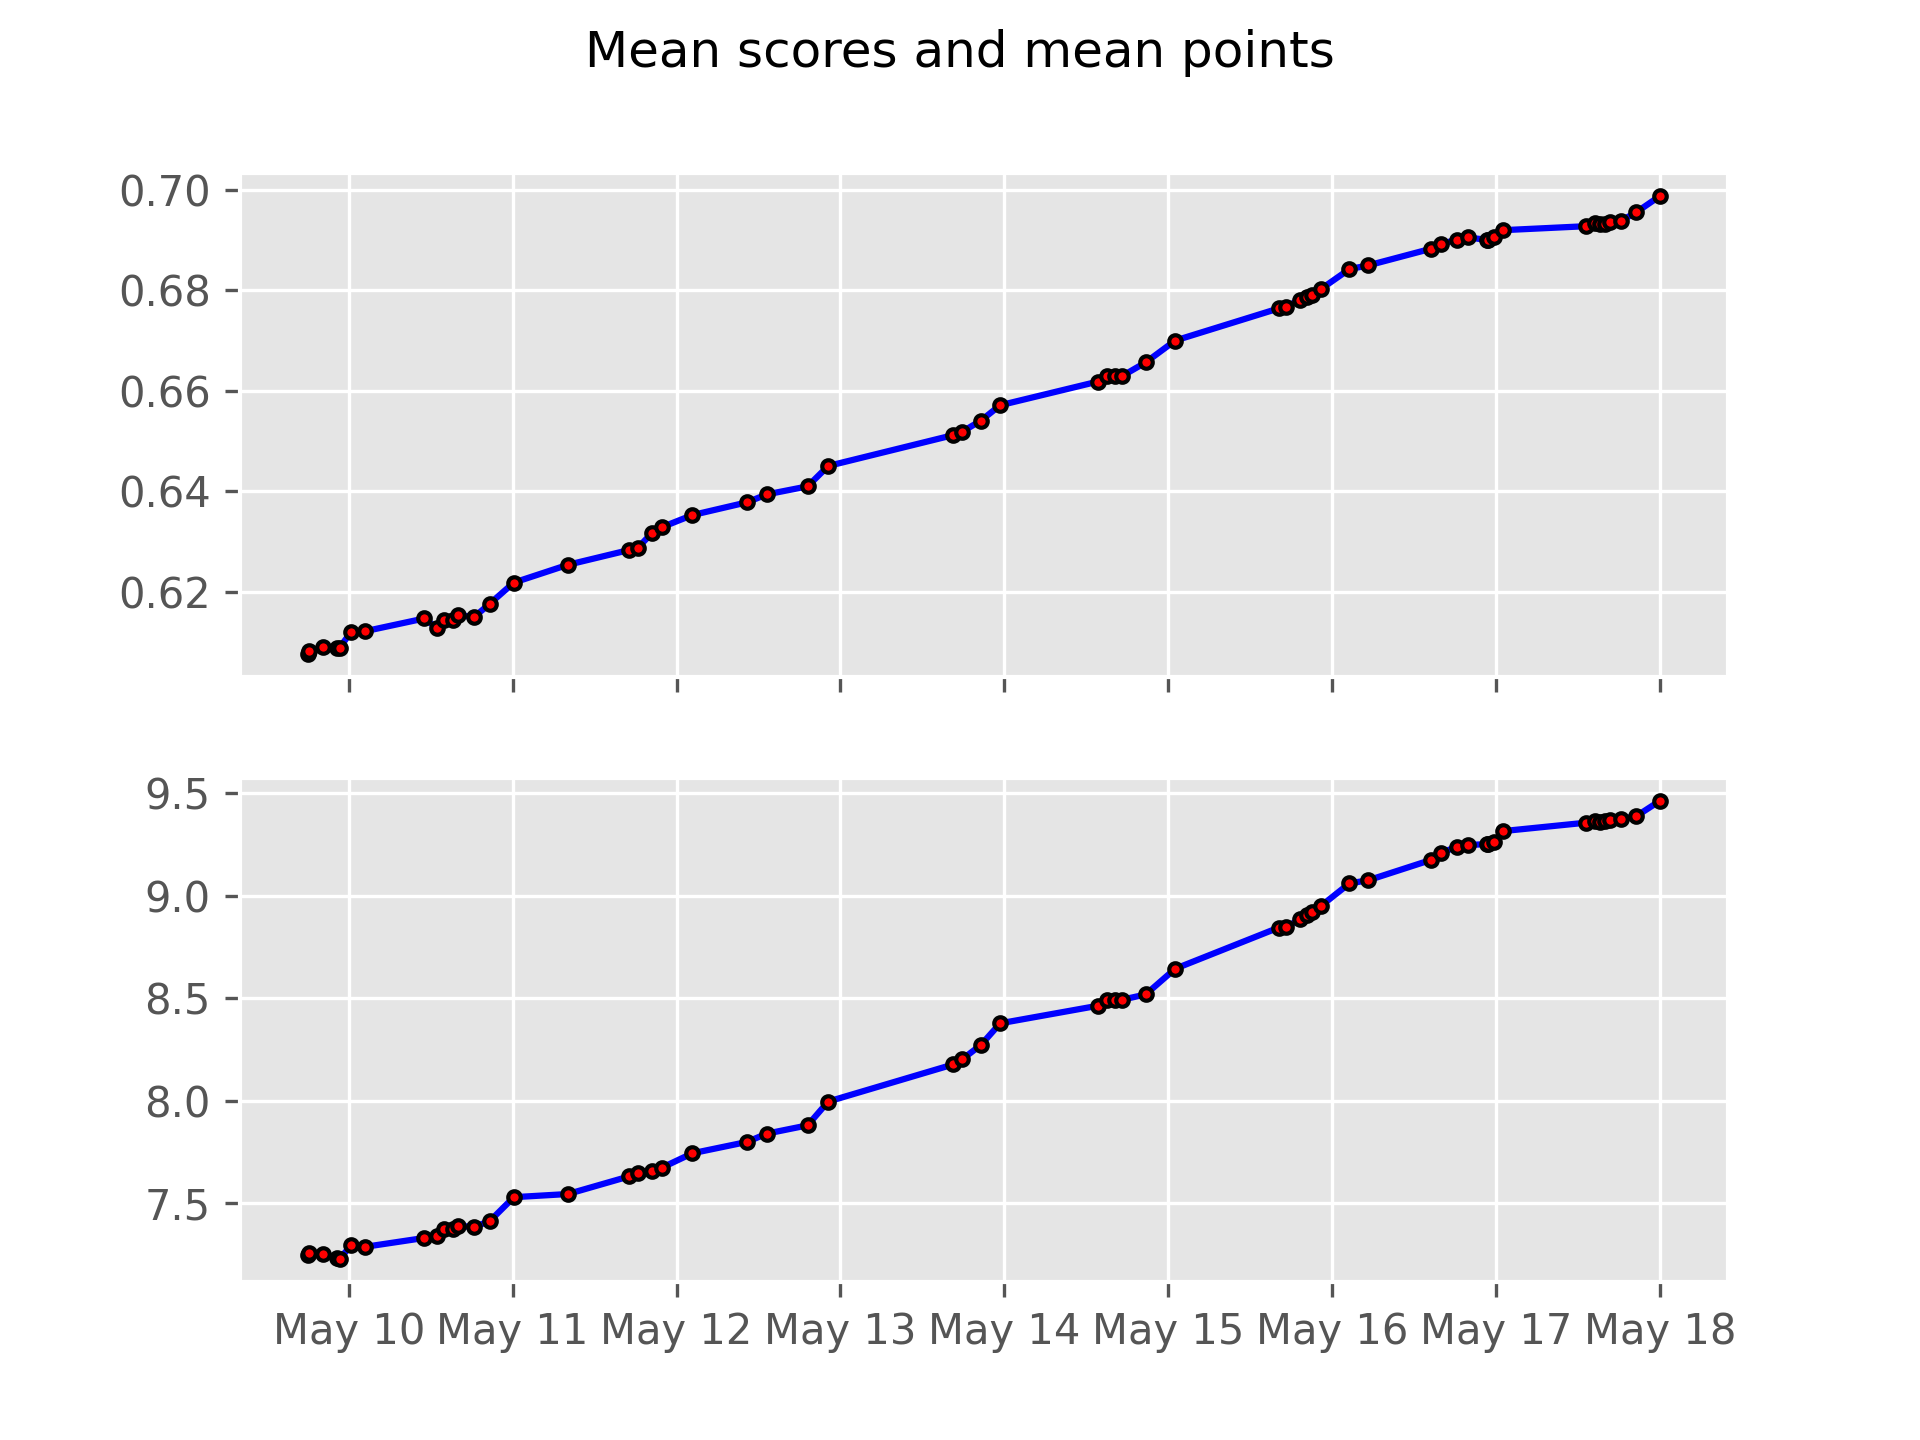
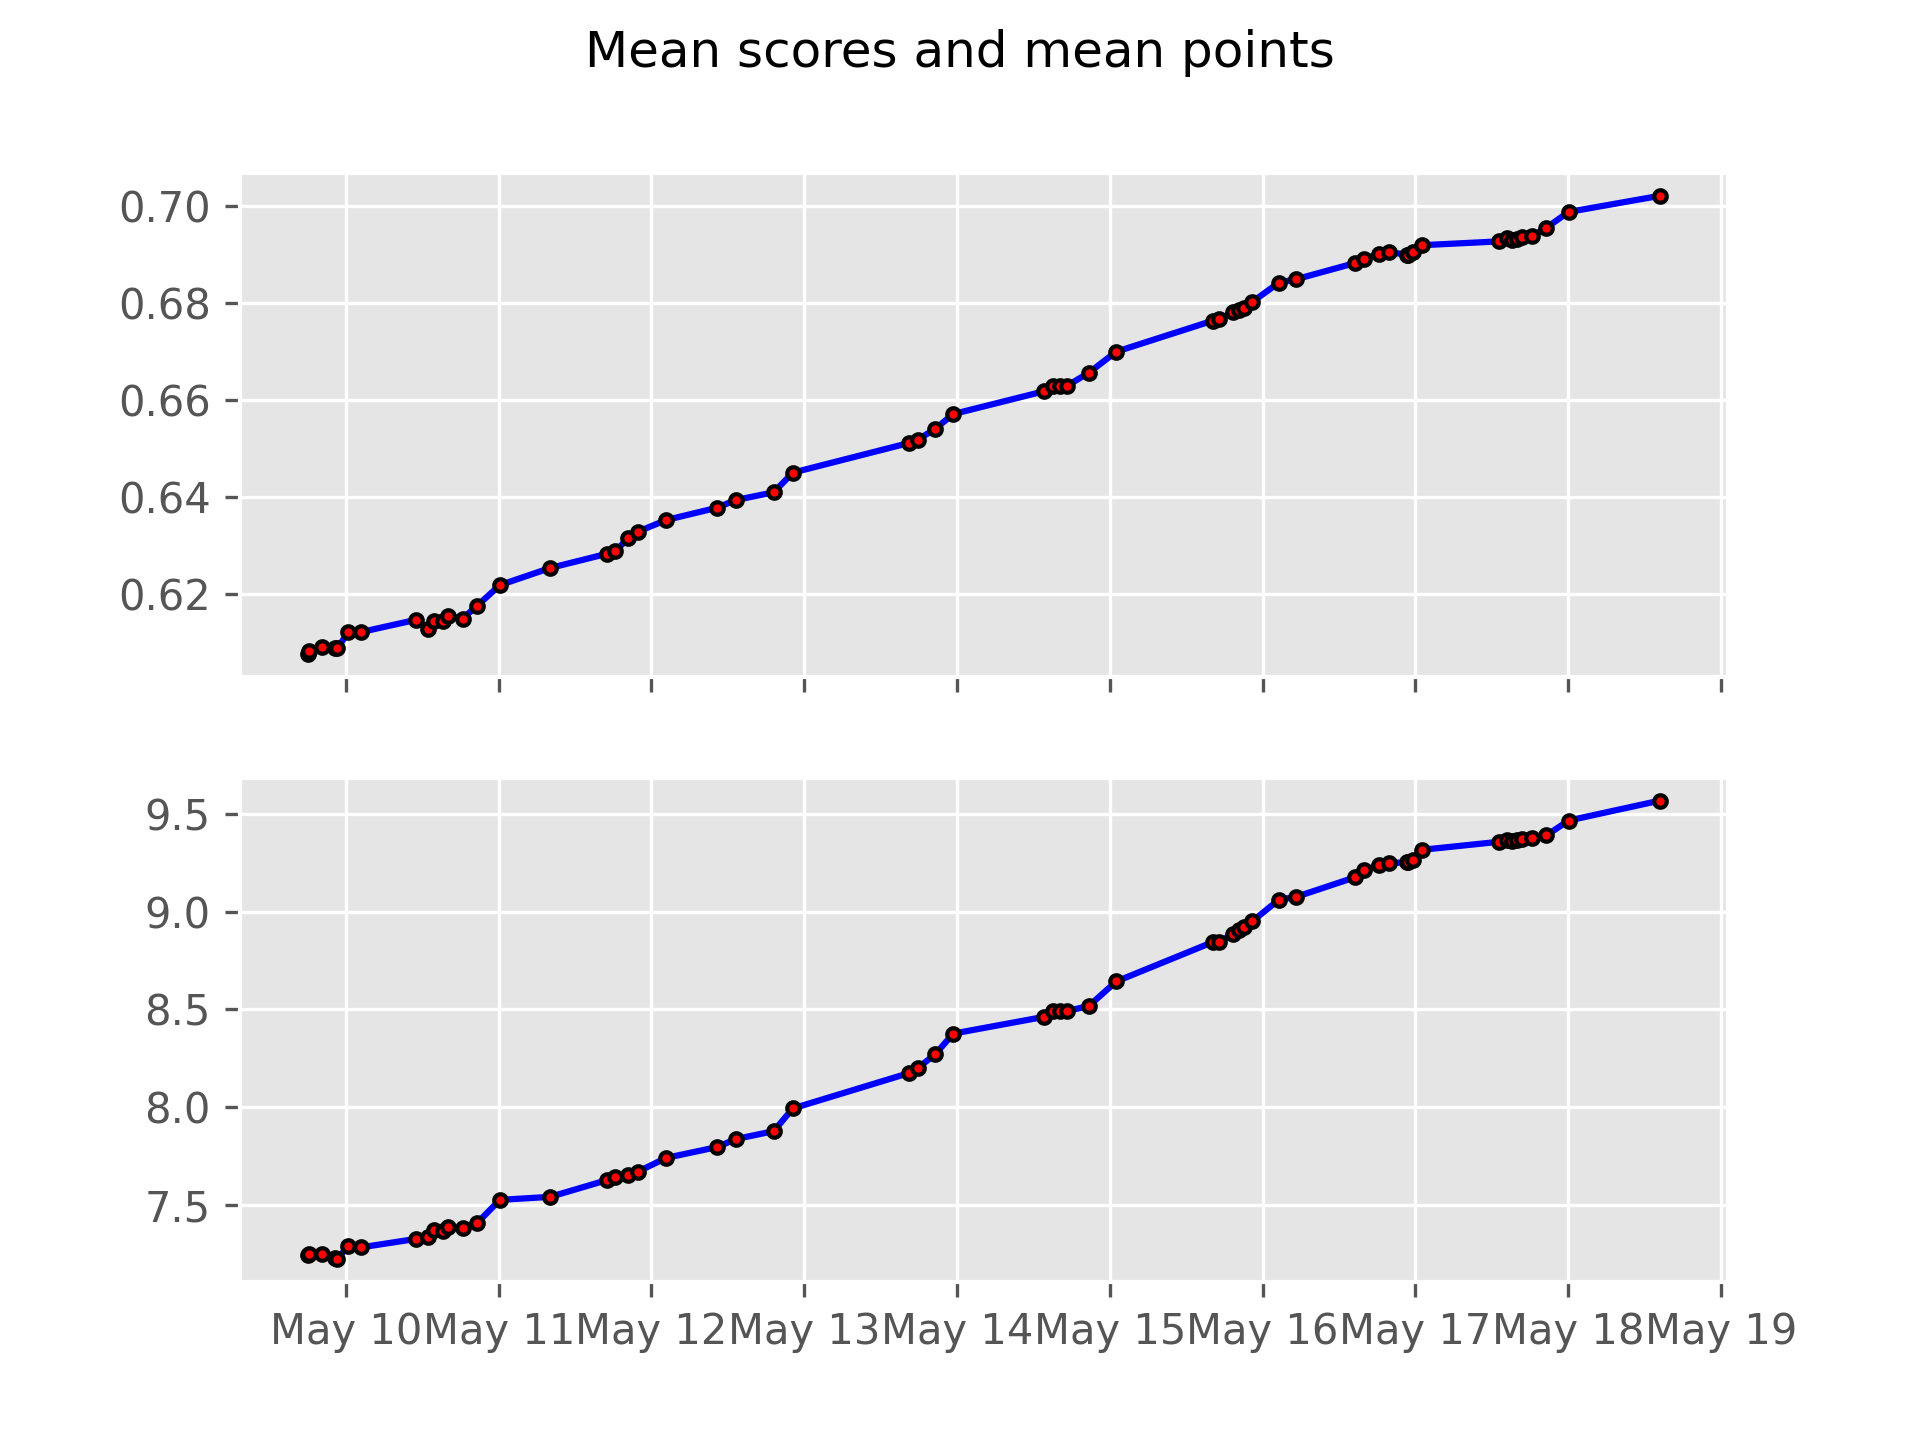
Updated: 2021-05-18 16:07:07

diff --git a/README.md b/README.md
@@ -1,6 +1,6 @@
 # ETC3250 Kaggle score
 
-**Last updated: May 18, 2021 14:29:31**
+**Last updated: May 18, 2021 16:07:07**
 
 ## WARNING: Your final grade is based on your score on the `private leaderboard`. 
 
@@ -21,10 +21,10 @@ Number of teams: 217
 |#|Team Id|Team Name|Submission Date|Score|Points|
 |---|---|---|---|---|---|
 |1|6759412|Davide Signor|18 May 11:36:03|0.86078|13|
-|2|6765261|Real Admin zyan0056|18 May 14:25:28|0.85398|13|
-|3|6749482|dzho37|18 May 13:39:51|0.85342|13|
+|2|6765261|GodBless zyan0056|18 May 14:25:28|0.85398|13|
+|3|6749482|dzho37|18 May 15:18:34|0.85342|13|
 |4|6754507|Not Admin|17 May 19:46:10|0.84946|13|
-|5|6767591|Life's So Hard|18 May 10:18:07|0.84833|13|
+|5|6767591|...|18 May 10:18:07|0.84833|13|
 |6|6754716|efre0004|17 May 02:39:44|0.82342|13|
 |7|6754129|ghan0002|16 May 15:42:02|0.82342|13|
 |8|6754828|mwjon5|15 May 18:05:18|0.80531|13|
@@ -39,7 +39,7 @@ Number of teams: 217
 |17|6755904|wtan0062|17 May 22:11:48|0.79003|12|
 |18|6755448|jwan0296|18 May 05:50:38|0.78834|12|
 |19|6812336|yhuu0033|17 May 23:59:38|0.78664|12|
-|20|6755993|jluu0047|18 May 14:18:23|0.78664|12|
+|20|6755993|jluu0047|18 May 14:30:41|0.78664|12|
 |21|6768738|iamnotaduck|11 May 23:10:49|0.78607|12|
 |22|6812653|[Deleted] c61d2c6b-462d-436e-a4bf-9a4963ce268c|17 May 23:24:01|0.78494|12|
 |23|6760087|ssha0141|17 May 22:49:34|0.78438|12|
@@ -49,12 +49,12 @@ Number of teams: 217
 |27|6813854|noPerry10|18 May 02:37:47|0.78155|12|
 |28|6766607|vietvo51|18 May 12:01:52|0.78155|12|
 |29|6751555|jwah0003|18 May 01:21:47|0.78155|12|
-|30|6763495|Yongkang Ni|18 May 09:45:31|0.77985|12|
+|30|6763495|Yongkang Ni|18 May 14:55:32|0.77985|12|
 |31|6767628|Bo Zhang 3520|18 May 00:40:02|0.77928|12|
 |32|6749357|pdai0002|17 May 21:16:53|0.77645|12|
 |33|6749592|igup0001|18 May 10:00:34|0.77589|12|
 |34|6776729|Admin3|17 May 22:56:10|0.77532|12|
-|35|6754050|Filippo Gioffre|17 May 12:32:23|0.77475|12|
+|35|6754050|Filippo Gioffre|18 May 16:03:15|0.77475|12|
 |36|6765501|iren0002|17 May 21:55:43|0.77475|12|
 |37|6753795|ttra0038|13 May 14:13:17|0.77419|12|
 |38|6764289|Thomas Pranoto|18 May 02:58:37|0.77192|12|
@@ -69,7 +69,7 @@ Number of teams: 217
 |47|6749892|zzz|17 May 23:40:35|0.76513|11|
 |48|6753842|Anqi Luo|17 May 23:35:47|0.76513|11|
 |49|6759838|xwuu0061|17 May 15:05:21|0.76287|11|
-|50|6768072|Jkan0025|17 May 16:32:25|0.76287|11|
+|50|6768072|Jkan0025|18 May 15:47:04|0.76287|11|
 |51|6754021|ntry0001|17 May 14:35:44|0.76230|11|
 |52|6755781|vwid06|17 May 05:08:33|0.76174|11|
 |53|6751334|yzha0275|17 May 20:55:34|0.76117|11|
@@ -84,53 +84,53 @@ Number of teams: 217
 |62|6815062|Maxime Grosjean|18 May 10:08:28|0.75664|11|
 |63|6754693|xwan0169|14 May 09:20:24|0.75664|11|
 |64|6768279|Thomas Winson|17 May 21:54:59|0.75551|11|
-|65|6768666|jham0020|16 May 23:44:06|0.75325|11|
-|66|6750103|heva0001|18 May 01:27:13|0.75268|11|
-|67|6762119|Evelyn Budhy Wibowo|17 May 22:42:36|0.75268|11|
-|68|6754314|Alexi Tsakis|18 May 13:24:14|0.75099|11|
-|69|6815147|Mathieu Van Der Poel|18 May 09:58:59|0.74985|11|
-|70|6750774|yhua0047|17 May 20:36:49|0.74985|11|
-|71|6759731|Daniel Ong|18 May 02:53:53|0.74985|11|
-|72|6758777|Gayani Amali Balasuriya|17 May 12:29:32|0.74872|11|
-|73|6754556|sami0006|16 May 16:22:20|0.74759|11|
-|74|6750485|Zhongxuan Yin|18 May 13:16:04|0.74646|11|
-|75|6760317|Wliu0044|17 May 23:24:07|0.74646|11|
-|76|6765326|ywan0454|12 May 02:49:19|0.74533|11|
-|77|6749461|mkar0012|16 May 14:43:07|0.74476|11|
-|78|6751520|mluk0004|17 May 15:48:40|0.74419|11|
-|79|6783780|mshi0014|17 May 16:54:52|0.74306|11|
-|80|6756740|psap0002|17 May 23:31:07|0.74193|11|
-|81|6755109|Dea Avega Editya|17 May 10:44:40|0.74136|11|
-|82|6760740|qwan0060|18 May 10:10:13|0.74080|11|
-|83|6753832|hmaus1|16 May 20:47:42|0.73967|11|
-|84|6749310|rtia0007|16 May 10:40:06|0.73967|11|
-|85|6813620|zz2050|18 May 01:55:15|0.73910|11|
-|86|6761498|qche0022|17 May 23:36:57|0.73514|10|
-|87|6766670|rlai0004|18 May 03:06:09|0.73514|10|
-|88|6749457|Belgian Pharmacist|18 May 10:12:33|0.73514|10|
-|89|6753638|nper0009|17 May 10:02:16|0.73457|10|
-|90|6750514|wwin0001|14 May 23:41:39|0.73401|10|
-|91|6750992|Qimei Yang|17 May 19:48:53|0.73174|10|
-|92|6750996|Lirui Guo|17 May 19:37:44|0.73174|10|
-|93|6768117|avon0005|18 May 13:19:58|0.73118|10|
-|94|6749287|rwon0005|16 May 22:14:18|0.73005|10|
-|95|6767433|ang0004|16 May 10:36:26|0.72948|10|
-|96|6760878|Oblong|14 May 09:53:00|0.72891|10|
-|97|6765541|wtan0001|16 May 15:08:01|0.72608|10|
-|98|6750421|sche0149|18 May 14:23:33|0.72608|10|
-|99|6763455|Ziyue Zhang|17 May 17:45:21|0.72552|10|
-|100|6753551|dorl0002|17 May 22:42:01|0.72043|10|
+|65|6753551|dorl0002|18 May 14:45:43|0.75382|11|
+|66|6768666|jham0020|16 May 23:44:06|0.75325|11|
+|67|6750103|heva0001|18 May 15:10:05|0.75268|11|
+|68|6762119|Evelyn Budhy Wibowo|17 May 22:42:36|0.75268|11|
+|69|6754314|Alexi Tsakis|18 May 13:24:14|0.75099|11|
+|70|6815147|Mathieu Van Der Poel|18 May 09:58:59|0.74985|11|
+|71|6750774|yhua0047|17 May 20:36:49|0.74985|11|
+|72|6759731|Daniel Ong|18 May 02:53:53|0.74985|11|
+|73|6758777|Gayani Amali Balasuriya|17 May 12:29:32|0.74872|11|
+|74|6754556|sami0006|16 May 16:22:20|0.74759|11|
+|75|6750485|Zhongxuan Yin|18 May 13:16:04|0.74646|11|
+|76|6760317|Wliu0044|17 May 23:24:07|0.74646|11|
+|77|6765326|ywan0454|12 May 02:49:19|0.74533|11|
+|78|6749461|mkar0012|16 May 14:43:07|0.74476|11|
+|79|6751520|mluk0004|17 May 15:48:40|0.74419|11|
+|80|6783780|mshi0014|17 May 16:54:52|0.74306|11|
+|81|6756740|psap0002|17 May 23:31:07|0.74193|11|
+|82|6755109|Dea Avega Editya|17 May 10:44:40|0.74136|11|
+|83|6760740|qwan0060|18 May 10:10:13|0.74080|11|
+|84|6753832|hmaus1|16 May 20:47:42|0.73967|11|
+|85|6749310|rtia0007|18 May 15:15:01|0.73967|11|
+|86|6813620|zz2050|18 May 01:55:15|0.73910|11|
+|87|6761498|qche0022|17 May 23:36:57|0.73514|10|
+|88|6766670|rlai0004|18 May 03:06:09|0.73514|10|
+|89|6749457|Belgian Pharmacist|18 May 10:12:33|0.73514|10|
+|90|6753638|nper0009|17 May 10:02:16|0.73457|10|
+|91|6768117|avon0005|18 May 15:23:50|0.73457|10|
+|92|6750514|wwin0001|14 May 23:41:39|0.73401|10|
+|93|6750992|Qimei Yang|18 May 14:32:40|0.73174|10|
+|94|6750996|Lirui Guo|17 May 19:37:44|0.73174|10|
+|95|6749287|rwon0005|16 May 22:14:18|0.73005|10|
+|96|6767433|ang0004|16 May 10:36:26|0.72948|10|
+|97|6760878|Oblong|14 May 09:53:00|0.72891|10|
+|98|6765541|wtan0001|16 May 15:08:01|0.72608|10|
+|99|6750421|sche0149|18 May 14:23:33|0.72608|10|
+|100|6763455|Ziyue Zhang|17 May 17:45:21|0.72552|10|
 |101|6753813|yzha0633|18 May 00:44:09|0.71986|10|
-|102|6749490|fwan0018|15 May 10:03:02|0.71986|10|
+|102|6749490|fwan0018|18 May 15:36:41|0.71986|10|
 |103|6813666|potterJames|18 May 02:02:35|0.71929|10|
 |104|6754894|dama0007|17 May 10:02:36|0.71929|10|
 |105|6767902|wfer0009|17 May 19:23:16|0.71873|10|
 |106|6754678|Ronghao Zhang|14 May 11:34:12|0.71703|10|
 |107|6749822|John Yan|17 May 23:52:06|0.71533|10|
-|108|6751234|Guy H Davis|14 May 10:57:28|0.71420|10|
+|108|6751234|gdav0007|14 May 10:57:28|0.71420|10|
 |109|6751598|hfen27|14 May 13:11:44|0.71420|10|
 |110|6749351|jche0254|18 May 00:31:12|0.71307|10|
-|111|6763958|berob5|17 May 21:43:39|0.71194|10|
+|111|6763958|berob5|18 May 15:32:02|0.71194|10|
 |112|6767603|jfer0020|11 May 19:09:43|0.71080|10|
 |113|6755522|casco2|15 May 12:16:36|0.71024|10|
 |114|6767378|Arzu Khanna|17 May 18:58:23|0.70911|10|
@@ -149,10 +149,10 @@ Number of teams: 217
 |127|6760529|maam0001|15 May 18:33:08|0.68817|10|
 |128|6750607|hngo0005|17 May 22:15:23|0.68647|10|
 |129|6762192|abab0012|18 May 12:35:53|0.68647|10|
-|130|6753792|Angelina Atanassova|17 May 12:28:44|0.68534|10|
+|130|6753792|Angelina Atanassova|18 May 15:53:39|0.68534|10|
 |131|6763905|xliu0026|18 May 11:17:46|0.68081|10|
 |132|6753670|Tran Thanh Han Ha|09 May 18:38:25|0.67798|10|
-|133|6761203|ajai0024|18 May 02:05:57|0.67741|10|
+|133|6761203|ajai0024|18 May 15:22:46|0.67741|10|
 |134|6761343|dgar0010|17 May 12:12:09|0.67741|10|
 |135|6765312|mqas0003|17 May 22:34:14|0.67685|9|
 |136|6807769|stupid assignment|17 May 18:42:10|0.67685|9|
@@ -161,54 +161,54 @@ Number of teams: 217
 |139|6753817|JiaPeng0106|10 May 13:28:44|0.66893|9|
 |140|6812044|Alexandra_Cqn|17 May 21:27:06|0.66610|9|
 |141|6758921|Zhijun Li/zlii0231|17 May 14:12:25|0.66157|9|
-|142|6775741|blen0004|17 May 21:07:12|0.66100|8|
+|142|6775741|blen0004|18 May 15:42:21|0.66100|8|
 |143|6765060|khyd0001|18 May 09:56:48|0.66044|8|
 |144|6768582|ague0004|18 May 11:19:10|0.66044|8|
 |145|6765741|bwen0003|14 May 01:20:38|0.65817|8|
 |146|6767860|ylii0273|17 May 18:51:23|0.65647|8|
 |147|6765463|lwan0125|17 May 22:06:58|0.65647|8|
-|148|6800064|Thuy Tran LINH|15 May 16:13:51|0.65534|<=7|
-|149|6763613|ofon0002|18 May 11:47:14|0.65251|<=7|
-|150|6763638|heva0003|17 May 17:32:14|0.65025|<=7|
-|151|6805744|Gregory Constantinou|17 May 22:30:54|0.64912|<=7|
-|152|6764503|Yu Zhou|16 May 00:00:03|0.64516|<=7|
-|153|6766440|Chenjie Gong|17 May 12:51:02|0.64516|<=7|
-|154|6761697|azad0001|17 May 15:15:21|0.64289|<=7|
-|155|6757039|phun0001|18 May 07:33:19|0.64176|<=7|
-|156|6756441|jwij0001|17 May 18:30:18|0.64119|<=7|
-|157|6759274|Dwayne Pinto|18 May 13:30:48|0.64119|<=7|
-|158|6770339|Jonathan Alexandro|17 May 23:21:27|0.63837|<=7|
-|159|6808040|cnm666|17 May 18:40:51|0.63723|<=7|
-|160|6768141|Don_Eggsaladsanga|18 May 12:32:30|0.63667|<=7|
-|161|6760382|jlee0179|16 May 13:31:23|0.63554|<=7|
-|162|6753957|Matthew Willaton|18 May 10:15:15|0.62988|<=7|
-|163|6812449|joaootaviors|17 May 23:32:52|0.62931|<=7|
-|164|6754085|Tomer Fridland|18 May 11:58:20|0.62139|<=7|
-|165|6738627|predictions_2021-05-04.csv|04 May 17:42:25|0.61516|<=7|
-|166|6750168|Ruimin Lin|17 May 17:17:21|0.61516|<=7|
-|167|6750648|[Deleted] a1fcae29-177c-495d-be3e-ecb1d2e418e1|06 May 20:32:47|0.61516|<=7|
-|168|6751310|Cpen0009|16 May 01:16:05|0.61516|<=7|
-|169|6753687|Juliette101|17 May 19:33:02|0.61516|<=7|
-|170|6754262|Namrata Goel|07 May 13:16:59|0.61516|<=7|
-|171|6754439|cyee0011|18 May 13:45:37|0.61516|<=7|
-|172|6754610|dvek0001|17 May 16:49:03|0.61516|<=7|
-|173|6754890|ctin0006|07 May 17:54:53|0.61516|<=7|
-|174|6756637|lqia0006|17 May 22:50:01|0.61516|<=7|
-|175|6758582|Vinny Vu|18 May 13:42:06|0.61516|<=7|
-|176|6758766|hhen0005|18 May 00:04:42|0.61516|<=7|
-|177|6758855|MKitchener_Monash|08 May 11:34:04|0.61516|<=7|
-|178|6759272|Suyue|08 May 13:38:52|0.61516|<=7|
-|179|6760487|Junze Zeng|08 May 18:39:04|0.61516|<=7|
-|180|6760974|ZipingLeow|13 May 02:51:53|0.61516|<=7|
-|181|6761427|byeo0005|17 May 18:24:14|0.61516|<=7|
-|182|6761422|Wenxuan Gong|08 May 22:16:50|0.61516|<=7|
-|183|6749288|dpha0015|16 May 23:39:15|0.61516|<=7|
-|184|6762642|rals0003|15 May 23:50:53|0.61516|<=7|
-|185|6763027|panagiotis stylianos|09 May 07:03:18|0.61516|<=7|
-|186|6760102|Yuheng Cui|09 May 13:49:20|0.61516|<=7|
-|187|6764303|fpso0001|17 May 15:27:40|0.61516|<=7|
-|188|6756077|walh0002|16 May 17:38:54|0.61516|<=7|
-|189|6765323|alim0045|09 May 21:35:25|0.61516|<=7|
+|148|6765323|alim0045|18 May 16:05:02|0.65591|<=7|
+|149|6800064|Thuy Tran LINH|15 May 16:13:51|0.65534|<=7|
+|150|6763613|ofon0002|18 May 11:47:14|0.65251|<=7|
+|151|6763638|heva0003|17 May 17:32:14|0.65025|<=7|
+|152|6805744|Gregory Constantinou|17 May 22:30:54|0.64912|<=7|
+|153|6764503|Yu Zhou|16 May 00:00:03|0.64516|<=7|
+|154|6766440|Chenjie Gong|17 May 12:51:02|0.64516|<=7|
+|155|6761697|azad0001|17 May 15:15:21|0.64289|<=7|
+|156|6757039|phun0001|18 May 07:33:19|0.64176|<=7|
+|157|6756441|jwij0001|17 May 18:30:18|0.64119|<=7|
+|158|6759274|Dwayne Pinto|18 May 13:30:48|0.64119|<=7|
+|159|6770339|Jonathan Alexandro|17 May 23:21:27|0.63837|<=7|
+|160|6808040|cnm666|17 May 18:40:51|0.63723|<=7|
+|161|6768141|Don_Eggsaladsanga|18 May 12:32:30|0.63667|<=7|
+|162|6760382|jlee0179|16 May 13:31:23|0.63554|<=7|
+|163|6753957|Matthew Willaton|18 May 10:15:15|0.62988|<=7|
+|164|6812449|joaootaviors|17 May 23:32:52|0.62931|<=7|
+|165|6754085|Tomer Fridland|18 May 11:58:20|0.62139|<=7|
+|166|6738627|predictions_2021-05-04.csv|04 May 17:42:25|0.61516|<=7|
+|167|6750168|Ruimin Lin|17 May 17:17:21|0.61516|<=7|
+|168|6750648|[Deleted] a1fcae29-177c-495d-be3e-ecb1d2e418e1|06 May 20:32:47|0.61516|<=7|
+|169|6751310|Cpen0009|16 May 01:16:05|0.61516|<=7|
+|170|6753687|Juliette101|17 May 19:33:02|0.61516|<=7|
+|171|6754262|Namrata Goel|07 May 13:16:59|0.61516|<=7|
+|172|6754439|cyee0011|18 May 13:45:37|0.61516|<=7|
+|173|6754610|dvek0001|17 May 16:49:03|0.61516|<=7|
+|174|6754890|ctin0006|07 May 17:54:53|0.61516|<=7|
+|175|6756637|lqia0006|17 May 22:50:01|0.61516|<=7|
+|176|6758582|Vinny Vu|18 May 13:42:06|0.61516|<=7|
+|177|6758766|hhen0005|18 May 00:04:42|0.61516|<=7|
+|178|6758855|MKitchener_Monash|08 May 11:34:04|0.61516|<=7|
+|179|6759272|Suyue|08 May 13:38:52|0.61516|<=7|
+|180|6760487|Junze Zeng|08 May 18:39:04|0.61516|<=7|
+|181|6760974|ZipingLeow|13 May 02:51:53|0.61516|<=7|
+|182|6761427|byeo0005|17 May 18:24:14|0.61516|<=7|
+|183|6761422|Wenxuan Gong|08 May 22:16:50|0.61516|<=7|
+|184|6749288|dpha0015|16 May 23:39:15|0.61516|<=7|
+|185|6762642|rals0003|15 May 23:50:53|0.61516|<=7|
+|186|6763027|panagiotis stylianos|09 May 07:03:18|0.61516|<=7|
+|187|6760102|Yuheng Cui|09 May 13:49:20|0.61516|<=7|
+|188|6764303|fpso0001|18 May 14:49:07|0.61516|<=7|
+|189|6756077|walh0002|16 May 17:38:54|0.61516|<=7|
 |190|6765399|ymia21|18 May 13:46:30|0.61516|<=7|
 |191|6765339|jgra0012|09 May 22:08:13|0.61516|<=7|
 |192|6766356|shua0076|10 May 01:50:18|0.61516|<=7|
